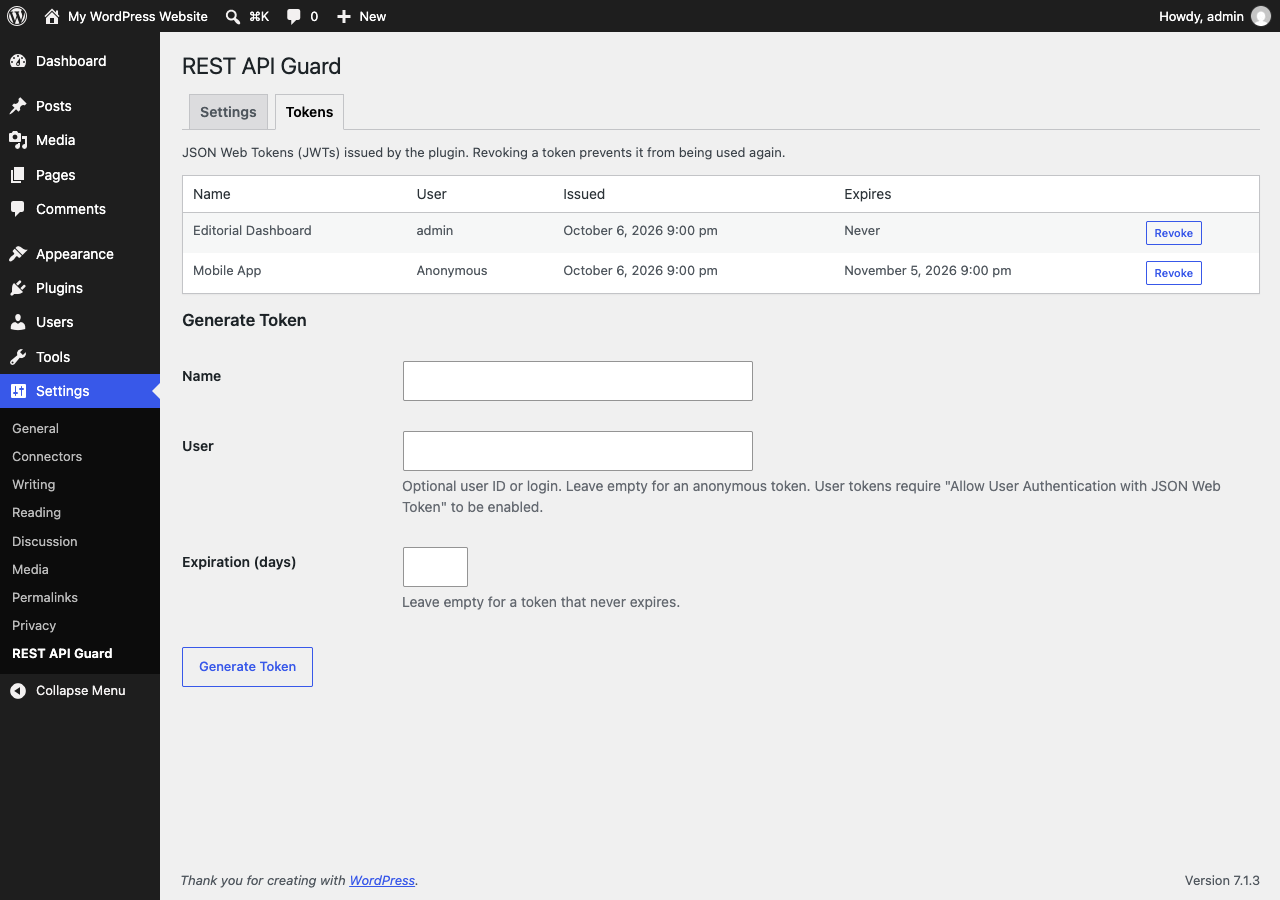
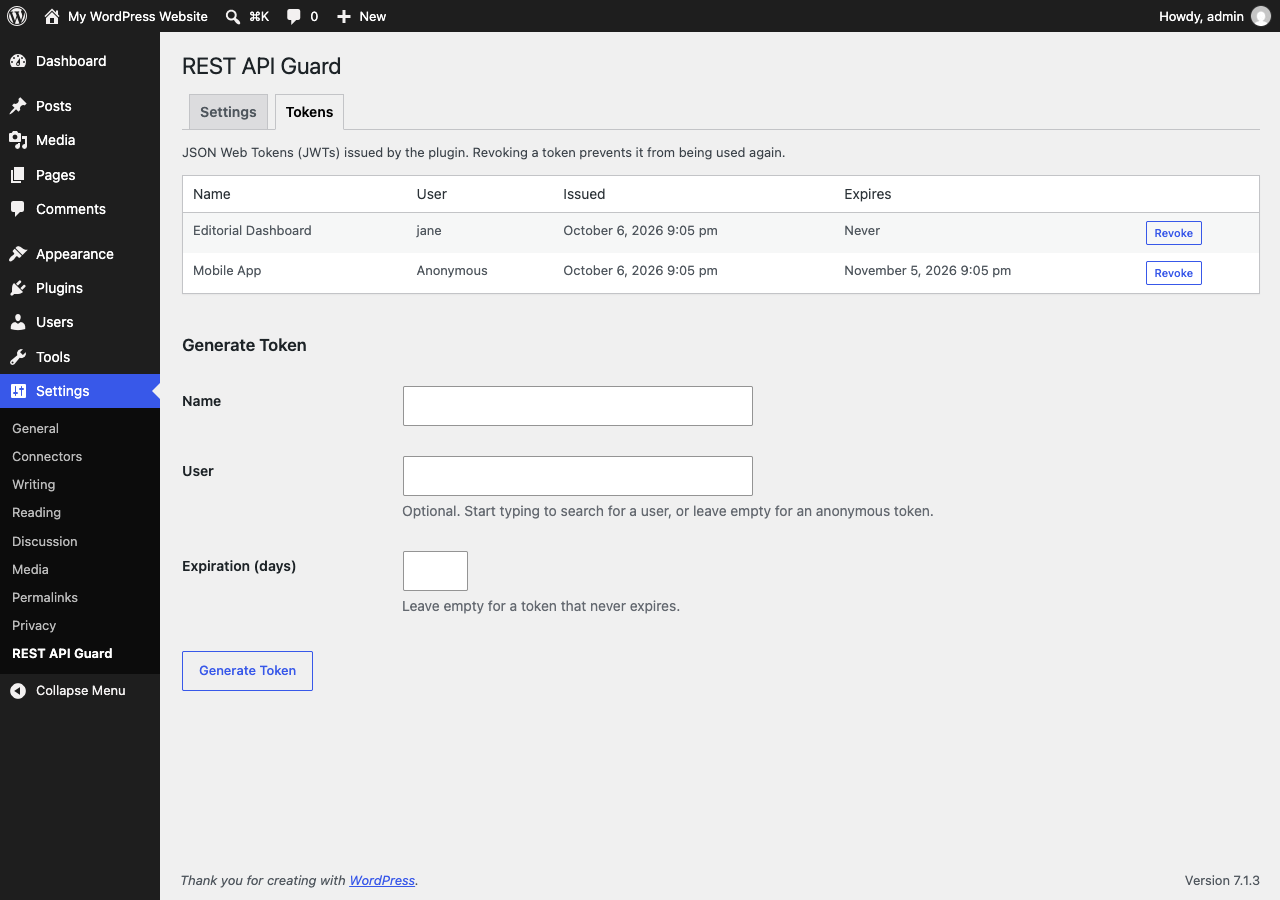
Autocomplete users in the token form
Search users through the REST API into a datalist, since core's user-suggest
only works on multisite. Resolve the user by login before falling back to ID,
give each Revoke button a unique ID, and add spacing above the form.

diff --git a/settings.php b/settings.php
@@ -16,6 +16,7 @@ if ( ! defined( 'ABSPATH' ) ) {
 
 add_action( 'admin_menu', __NAMESPACE__ . '\on_admin_menu' );
 add_action( 'admin_init', __NAMESPACE__ . '\on_admin_init' );
+add_action( 'admin_enqueue_scripts', __NAMESPACE__ . '\on_admin_enqueue_scripts' );
 add_action( 'admin_post_rest_api_guard_generate_jwt', __NAMESPACE__ . '\handle_generate_jwt' );
 add_action( 'admin_post_rest_api_guard_revoke_jwt', __NAMESPACE__ . '\handle_revoke_jwt' );
 
@@ -45,6 +46,59 @@ function on_admin_menu() {
 		'manage_options',
 		SETTINGS_KEY,
 		__NAMESPACE__ . '\render_admin_page',
+	);
+}
+
+/**
+ * Enqueue the user autocomplete for the token form.
+ *
+ * @param string $hook_suffix The current admin page.
+ */
+function on_admin_enqueue_scripts( $hook_suffix ) {
+	if ( 'settings_page_' . SETTINGS_KEY !== $hook_suffix || ! is_jwt_authentication_enabled() ) {
+		return;
+	}
+
+	wp_enqueue_script( 'wp-api-fetch' );
+	wp_add_inline_script(
+		'wp-api-fetch',
+		<<<'JS'
+		document.addEventListener( 'DOMContentLoaded', () => {
+			const input = document.getElementById( 'rest-api-guard-jwt-user' );
+			const list = document.getElementById( 'rest-api-guard-jwt-users' );
+			let timer;
+
+			if ( ! input || ! list ) {
+				return;
+			}
+
+			input.addEventListener( 'input', () => {
+				clearTimeout( timer );
+
+				if ( input.value.length < 2 ) {
+					return;
+				}
+
+				timer = setTimeout( async () => {
+					const users = await wp.apiFetch( {
+						path: wp.url.addQueryArgs( '/wp/v2/users', {
+							search: input.value,
+							context: 'edit',
+							per_page: 10,
+							_fields: 'username,name',
+						} ),
+					} );
+
+					list.replaceChildren( ...users.map( ( user ) => {
+						const option = document.createElement( 'option' );
+						option.value = user.username;
+						option.label = user.name;
+						return option;
+					} ) );
+				}, 250 );
+			} );
+		} );
+		JS,
 	);
 }
 
@@ -213,7 +267,7 @@ function render_tokens_section() {
 							<input type="hidden" name="action" value="rest_api_guard_revoke_jwt" />
 							<input type="hidden" name="jti" value="<?php echo esc_attr( $jti ); ?>" />
 							<?php wp_nonce_field( 'rest_api_guard_revoke_jwt' ); ?>
-							<?php submit_button( __( 'Revoke', 'rest-api-guard' ), 'delete small', 'submit', false ); ?>
+							<?php submit_button( __( 'Revoke', 'rest-api-guard' ), 'delete small', 'submit', false, [ 'id' => 'revoke-' . $jti ] ); ?>
 						</form>
 					</td>
 				</tr>
@@ -221,7 +275,7 @@ function render_tokens_section() {
 		</tbody>
 	</table>
 
-	<h3><?php esc_html_e( 'Generate Token', 'rest-api-guard' ); ?></h3>
+	<h3 style="margin-top: 2.5em;"><?php esc_html_e( 'Generate Token', 'rest-api-guard' ); ?></h3>
 	<form method="post" action="<?php echo esc_url( admin_url( 'admin-post.php' ) ); ?>">
 		<input type="hidden" name="action" value="rest_api_guard_generate_jwt" />
 		<?php wp_nonce_field( 'rest_api_guard_generate_jwt' ); ?>
@@ -233,8 +287,9 @@ function render_tokens_section() {
 			<tr>
 				<th scope="row"><label for="rest-api-guard-jwt-user"><?php esc_html_e( 'User', 'rest-api-guard' ); ?></label></th>
 				<td>
-					<input type="text" class="regular-text" name="user" id="rest-api-guard-jwt-user" />
-					<p class="description"><?php esc_html_e( 'Optional user ID or login. Leave empty for an anonymous token. User tokens require "Allow User Authentication with JSON Web Token" to be enabled.', 'rest-api-guard' ); ?></p>
+					<input type="text" class="regular-text" name="user" id="rest-api-guard-jwt-user" list="rest-api-guard-jwt-users" autocomplete="off" />
+					<datalist id="rest-api-guard-jwt-users"></datalist>
+					<p class="description"><?php esc_html_e( 'Optional. Start typing to search for a user, or leave empty for an anonymous token.', 'rest-api-guard' ); ?></p>
 				</td>
 			</tr>
 			<tr>
@@ -265,7 +320,11 @@ function handle_generate_jwt() {
 	$expiration = absint( $_POST['expiration'] ?? 0 );
 
 	if ( '' !== $user_input ) {
-		$user = get_user_by( is_numeric( $user_input ) ? 'id' : 'login', $user_input );
+		$user = get_user_by( 'login', $user_input );
+
+		if ( ! $user && is_numeric( $user_input ) ) {
+			$user = get_user_by( 'id', $user_input );
+		}
 
 		if ( ! $user ) {
 			redirect_to_admin_page( 'invalid_user' );

diff --git a/tests/RestApiGuardTest.php b/tests/RestApiGuardTest.php
@@ -506,4 +506,31 @@ class RestApiGuardTest extends Test_Case {
 
 		$this->assertTrue( is_jwt_authentication_enabled() );
 	}
+
+	public function test_admin_generate_jwt_for_user_login() {
+		$this->acting_as( 'administrator' );
+
+		$user = static::factory()->user->create_and_get( [ 'user_login' => '12345' ] );
+
+		add_filter(
+			'wp_redirect',
+			function ( $location ) {
+				throw new \RuntimeException( $location );
+			},
+		);
+
+		$_POST = $_REQUEST = [
+			'name'     => 'Numeric Login',
+			'user'     => '12345',
+			'_wpnonce' => wp_create_nonce( 'rest_api_guard_generate_jwt' ),
+		];
+
+		try {
+			handle_generate_jwt();
+		} catch ( \RuntimeException ) {
+			// Redirected.
+		}
+
+		$this->assertSame( $user->ID, array_values( get_tokens() )[0]['user_id'] );
+	}
 }
